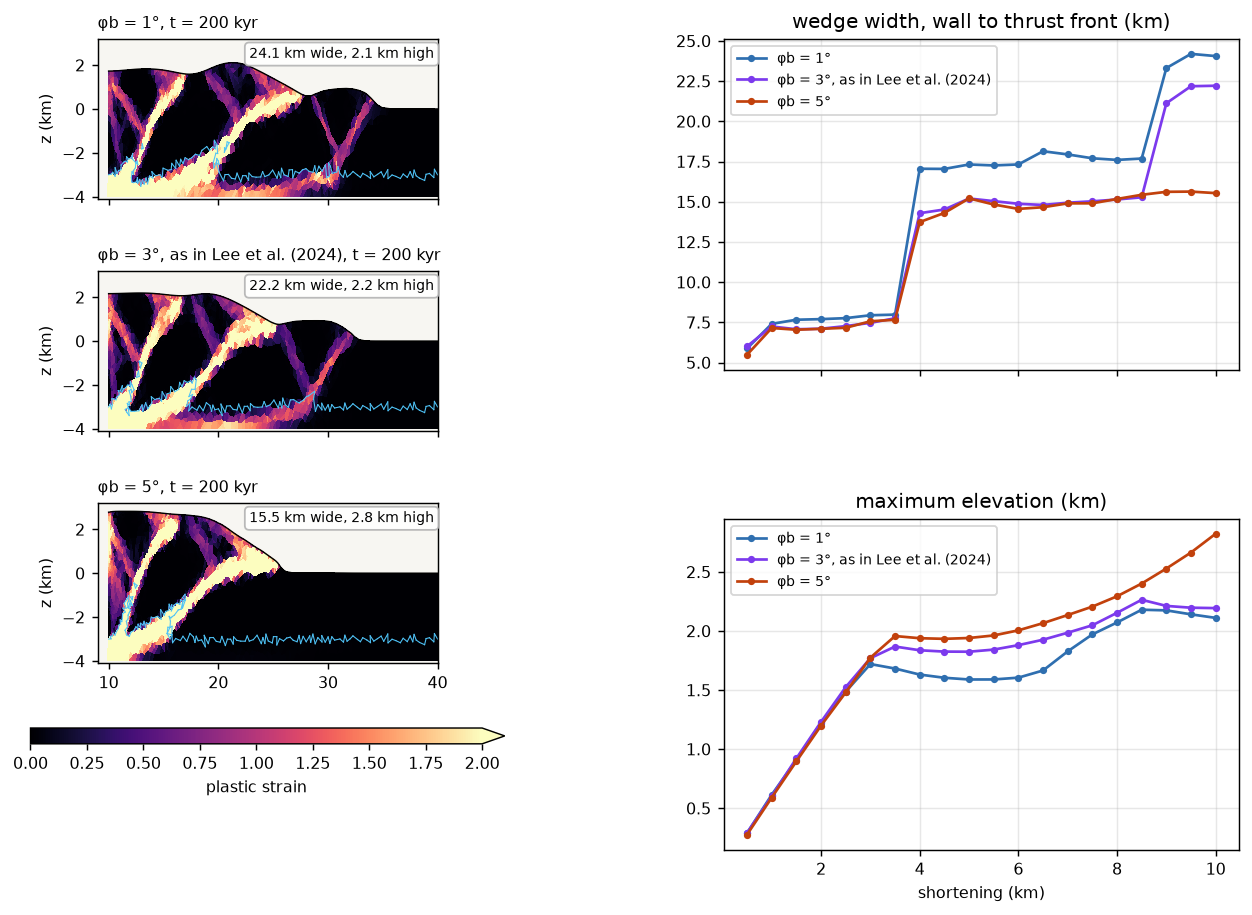
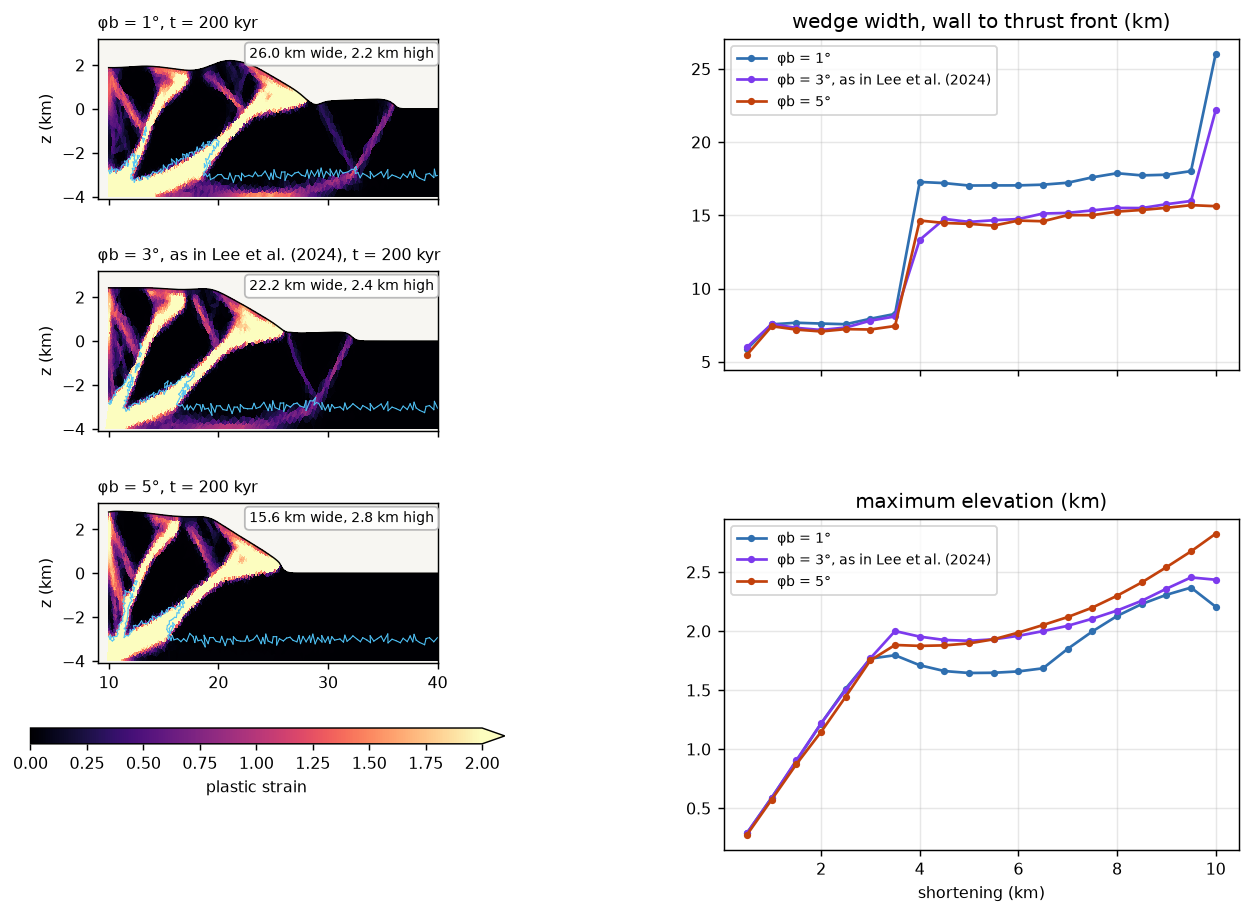
docs: rerun the wedge tutorial with the MMG build
DynEarthSol PR #113 makes remeshing_option 12 work with MMG remeshing,
so the tutorial now uses the MMG build, which refines the faults to
elements of about 180 m. All seven runs were redone with it and every
figure, table and number on the page comes from them; a tip gives the
Triangle results for comparison.

What moved: the 1 degree wedge breaks its third thrust just before
200 kyr instead of at 180 kyr (26.0 km wide, against 24.1); with
surface diffusivity 1e-5 it breaks none, so erosion hides most of the
basal-friction contrast; at inertial_scaling 1e4 the second thrust
breaks earlier but in the same place. The strain-rate paragraph now
states only what both runs measure: 75-94 % of the brittle-layer rate
behind the front, and a decollement share that falls at 5 degrees.

diff --git a/docs/tutorial/accretionary-wedge.md b/docs/tutorial/accretionary-wedge.md
@@ -12,7 +12,7 @@ This tutorial builds a fold-and-thrust belt, or accretionary wedge: a brittle
 layer pushed against a backstop, sliding on a weak decollement. It runs the
 same model twice, with a basal friction angle of 1° and of 5°, and compares
 how the wedge grows. The setup is a small version of the models of
-Lee, Tan & Chang (2024), cut down so that each run takes about 4 minutes on
+Lee, Tan & Chang (2024), cut down so that each run takes about 5 minutes on
 4 threads.
 
 Shortening thickens the layer next to the backstop until the wedge is steep
@@ -39,14 +39,14 @@ lower, wider wedge.
 
 ## Prerequisites
 
-- ✅ DynEarthSol compiled in 2D **without** MMG, `make ndims=2`; see
-  [Build](../usage/usage.md) and [Running DES3D](../usage/run.md). The MMG
-  build does not support `remeshing_option = 12` yet: its first remesh
-  corrupts the mesh (see [Troubleshooting](#troubleshooting))
+- ✅ DynEarthSol compiled in 2D with MMG, `make ndims=2 usemmg=1`; see
+  [Build](../usage/usage.md), [Running DES3D](../usage/run.md) and
+  [Adaptive mesh refinement with MMG](./usingmmg.md). MMG refines the mesh
+  along the faults as they form
 - ✅ A DynEarthSol version that includes
-  [PR #113](https://github.com/GeoFLAC/DynEarthSol/pull/113), which fixes
-  `remeshing_option = 12`. Without it each remesh deletes interior nodes, the
-  mesh coarsens and no discrete thrusts form
+  [PR #113](https://github.com/GeoFLAC/DynEarthSol/pull/113), which makes
+  `remeshing_option = 12` work. Without it the first MMG remesh scatters the
+  mesh (see [Troubleshooting](#troubleshooting))
 - ✅ Python 3 with `numpy` and `matplotlib` for the plots, and optionally
   [ParaView](https://www.paraview.org/) with `2vtk.py`; see
   [Visualizing outputs](../usage/visualize.md)
@@ -72,7 +72,7 @@ The two configs differ only in `modelname` and the decollement friction angle.
 | Push | 5 cm/yr, 100 km over 2 Myr | 5 cm/yr, 10 km over 200 kyr |
 | Basal friction | 1° and 3° | 1° and 5° (3° is Exercise 1) |
 | Surface diffusivity | 1e-6 and 1e-5 m²/s | 1e-6 m²/s (1e-5 is Exercise 2) |
-| Run time | hours | about 4 minutes per run on 4 threads |
+| Run time | hours | about 5 minutes per run on 4 threads |
 
 The materials are the paper's. The brittle layer softens from a friction
 angle of 30° to 15° and a cohesion of 4 to 0.4 MPa over a plastic strain of
@@ -121,8 +121,8 @@ steps ≈ 2 × shortening × inertial_scaling / (smallest element height)
 ```
 
 Here that is 2 × 10 km × 3000 / 150 m = 400 000 steps on the initial mesh;
-the run takes about a million, because remeshing leaves some elements smaller
-than that. The cost is set by three choices: shortening, `inertial_scaling`
+the run takes about 900 000, because MMG refines the faults to elements as
+small as 80 m. The cost is set by three choices: shortening, `inertial_scaling`
 and how small elements may get (`resolution` and `smallest_size`). The DES
 default `inertial_scaling = 1e5` would need 30 million steps; this tutorial
 uses 3e3 and checks the result against 1e4 in Exercise 3.
@@ -207,14 +207,15 @@ Section by section:
 
 - **`[sim]`** runs 200 kyr, 10 km of shortening at 5 cm/yr, with a frame every
   10 kyr, 0.5 km of shortening.
-- **`[mesh]`** builds a uniform 40 × 4 km mesh. With Triangle, `resolution`
-  is not the element edge: the area limit is 1.5 × `resolution`², and these
-  settings give 2778 elements with a median edge of 364 m. Triangle
-  remeshing never refines, so the initial mesh is the finest the run will
-  have; it ends with 3474 elements and a median edge of 321 m.
-  `smallest_size = 0.2` remeshes when an element is squeezed below 0.2 of the
-  area of an equilateral triangle with edge `resolution`, which keeps `dt`
-  from collapsing.
+- **`[mesh]`** builds a uniform 40 × 4 km mesh. `resolution` is not the
+  element edge: the initial area limit is 1.5 × `resolution`², and these
+  settings give 2778 elements with a median edge of 364 m. At each remesh MMG
+  refines where plastic strain accumulates, between the sizes `largest_size`
+  and `smallest_size` allow. By 200 kyr the 1° run has 5850 elements: those
+  in the faults (plastic strain above 1) have a median edge of 179 m, the
+  rest 267 m. `smallest_size = 0.2` also remeshes when an element is squeezed
+  below 0.2 of the area of an equilateral triangle with edge `resolution`,
+  which keeps `dt` from collapsing.
 - **`[control]`** turns on hillslope diffusion of the surface and sets
   `inertial_scaling`, which with the element size sets the step count (see
   above).
@@ -249,12 +250,21 @@ OMP_NUM_THREADS=4 /path/to/DynEarthSol/dynearthsol2d wedge-phi1.cfg
 OMP_NUM_THREADS=4 /path/to/DynEarthSol/dynearthsol2d wedge-phi5.cfg
 ```
 
-On an 8-core desktop (Intel i7-10700) each run took 4 minutes alone on 4
-threads, about a million steps and 130 to 180 remeshes; two at once on 4
-threads each took 5 minutes. On a 4-core laptop, run them one after the
+On an 8-core desktop (Intel i7-10700) the 1° run took 4.6 minutes alone on 4
+threads, about 890 000 steps and 105 remeshes; the two at once on 4 threads
+each took 5.5 minutes. On a 4-core laptop, run them one after the
 other, or both at once with `OMP_NUM_THREADS=2`. The log prints a line every
 100 000 steps, an `Output #` line every 10 kyr, and a `Remeshing starts` line
 at every remesh. Output goes to `wedge-phi1.save.*` and `wedge-phi5.save.*`.
+
+:::tip Without MMG
+The same configs run on a plain Triangle build (`make ndims=2`). Triangle
+remeshing does not refine, so the faults stay as wide as the initial elements
+and the run is about 15 % faster. The wedges come out alike: at 200 kyr,
+24.4 km wide and 2.0 km high at 1°, 15.7 km and 2.7 km at 5°, against 26.0
+and 2.2, 15.6 and 2.8 with MMG. The third thrust at 1° breaks at 180 kyr
+instead of 200.
+:::
 
 ## Step 3: What to look for
 
@@ -278,13 +288,13 @@ because the wedge is still too short for its base to carry much of the push.
 Then they part:
 
 - **At 80 kyr both break a new thrust far ahead.** At φb = 1° the new pair
-  roots in the decollement 17 km from the wall; at φb = 5° only 14 km. The
+  roots in the decollement 17 km from the wall; at φb = 5° only 15 km. The
   weak base transmits the push farther before the layer fails.
 - **At 200 kyr the 1° wedge has three thrust slices, the 5° wedge two.**
-  At 1° a third pair broke at 180 kyr, 23 km from the wall; at 5° the
-  second slice is still being overthrust and the front has not moved.
-- **The 5° wedge is narrower and higher.** It is 15.5 km wide and 2.8 km
-  high, against 24 km and 2.1 km at 1°. The same shortening has gone into
+  At 1° a third pair broke just before 200 kyr, 26 km from the wall; at 5°
+  the second slice is still being overthrust and the front has hardly moved.
+- **The 5° wedge is narrower and higher.** It is 15.6 km wide and 2.8 km
+  high, against 26 km and 2.2 km at 1°. The same shortening has gone into
   less width and more height, a steeper taper.
 - **The decollement is dragged along.** Under the wedge it is sheared and
   thickened against the wall (the bright band along the base); ahead of the
@@ -292,10 +302,10 @@ Then they part:
 
 | t (kyr) | Shortening (km) | Width at 1° (km) | Height at 1° (km) | Width at 5° (km) | Height at 5° (km) |
 |---|---|---|---|---|---|
-| 50 | 2.5 | 7.8 | 1.5 | 7.2 | 1.5 |
-| 100 | 5 | 17.3 | 1.6 | 15.2 | 1.9 |
-| 150 | 7.5 | 17.7 | 2.0 | 14.9 | 2.2 |
-| 200 | 10 | 24.1 | 2.1 | 15.5 | 2.8 |
+| 50 | 2.5 | 7.6 | 1.5 | 7.2 | 1.4 |
+| 100 | 5 | 17.0 | 1.6 | 14.4 | 1.9 |
+| 150 | 7.5 | 17.6 | 2.0 | 15.0 | 2.2 |
+| 200 | 10 | 26.0 | 2.2 | 15.6 | 2.8 |
 
 Width is measured from the wall to the thrust front, the farthest point of the
 upper 2.5 km of the brittle layer where plastic strain exceeds 0.5.
@@ -303,22 +313,24 @@ upper 2.5 km of the brittle layer where plastic strain exceeds 0.5.
 ![Strain rate of the same frames: the faults active at each moment](./img/wedge/wedge-strainrate.png)
 
 Strain rate shows which of those faults are moving at each moment, and it is
-fewer than plastic strain suggests. Where the two runs differ is in where the
-active faults are:
+fewer than plastic strain suggests. In both runs, from 80 kyr on, 75 to 94 %
+of the plastic strain rate of the brittle layer is within 8 km behind the
+thrust front, and the thrusts between the front and the wall are nearly
+locked. The runs differ in what carries the rest:
 
-- **At 1° the front does the work.** Once a new thrust has broken, 65 to 85 %
-  of the plastic strain rate of the brittle layer is in the frontal slice,
-  and the slices behind it are nearly locked. The decollement under the
-  wedge carries 50 to 80 % of all plastic strain rate.
-- **At 5° the rear comes back to life.** At 100 kyr more than half of the
-  brittle-layer plastic strain rate is within 8 km of the wall, on faults that
-  had been abandoned: the wedge thickens internally to steepen its taper
-  before it can advance again. The decollement carries 33 to 60 %.
+- **At 1° the decollement does.** It carries about half or more of all
+  plastic strain rate, 49 to 79 %, and the wedge slides on it as a whole. The
+  exception is the frame before the new thrust breaks (37 % at 180 kyr).
+- **At 5° the wedge itself does, more and more.** The decollement's share falls
+  steadily, from 63 % at 80 kyr to 39 % at 200 kyr, as the wedge grows and
+  its base gets harder to slide. The backthrust at the wall takes up 7 to 15 %
+  of the brittle-layer rate from 120 kyr on, against 2 to 6 % at 1° (14 % in
+  the frame before the new thrust).
 
 Lee, Tan & Chang (2024) found, over much longer runs, that the frontal thrusts
 are the only active structures for over 95 % of the time, and that new thrusts
-form and older ones reactivate in short episodes (here, the jumps at 80 and
-180 kyr). In this small model that pattern is clearest at 1°.
+form and older ones reactivate in short episodes. Here the episodes are the
+jumps at 80 and 200 kyr.
 
 ![Surface topography at 100 and 200 kyr, and wedge width and maximum elevation against shortening, for both runs](./img/wedge/wedge-growth.png)
 
@@ -341,15 +353,15 @@ python3 wedge_figures.py compare basal.png "wedge-phi1:φb = 1°" \
 
 | Run | Width at 200 kyr | Height at 200 kyr | New thrusts after the first |
 |-----|------------------|-------------------|-----------------------------|
-| φb = 1° | 24.1 km | 2.1 km | at 80 and 180 kyr |
-| φb = 3° | 22.2 km | 2.2 km | at 80 and 180 kyr |
-| φb = 5° | 15.5 km | 2.8 km | at 80 kyr |
+| φb = 1° | 26.0 km | 2.2 km | at 80 and 200 kyr |
+| φb = 3° | 22.2 km | 2.4 km | at 80 and 200 kyr |
+| φb = 5° | 15.6 km | 2.8 km | at 80 kyr |
 
 ![Plastic strain at 200 kyr for basal friction 1°, 3° and 5°, and wedge width and maximum elevation against shortening](./img/wedge/wedge-basal-friction.png)
 
-At 3° the wedge follows the 5° one at first: the second thrust breaks 14 km
-from the wall, as at 5°, and the height between jumps is in between. But at
-180 kyr it breaks a third thrust at the same time as the 1° wedge. Over only
+At 3° the wedge follows the 5° one at first: the second thrust breaks 13 to
+15 km from the wall, as at 5°, and the height between jumps is in between. But
+just before 200 kyr it breaks a third thrust, at the same time as the 1° wedge. Over only
 10 km of shortening the wedge has room for two or three slices, so a
 difference in basal friction shows up as whether one more thrust has formed or
 not. That is why the main comparison uses 5°: over this short a run, 3° and
@@ -364,36 +376,40 @@ Set `surface_diffusivity = 1e-5`, the paper's other value, in both configs
 
 | Run | Width at 200 kyr | Height at 200 kyr |
 |-----|------------------|-------------------|
-| φb = 1°, κ = 1e-6 | 24.1 km | 2.1 km |
-| φb = 1°, κ = 1e-5 | 26.1 km | 2.0 km |
-| φb = 5°, κ = 1e-6 | 15.5 km | 2.8 km |
-| φb = 5°, κ = 1e-5 | 12.8 km | 2.7 km |
+| φb = 1°, κ = 1e-6 | 26.0 km | 2.2 km |
+| φb = 1°, κ = 1e-5 | 15.2 km | 2.3 km |
+| φb = 5°, κ = 1e-6 | 15.6 km | 2.8 km |
+| φb = 5°, κ = 1e-5 | 14.2 km | 2.4 km |
 
 Erosion takes material off the top of the wedge and spreads it as an apron in
 front of the toe. The apron makes the topography look wider, which is why the
 width here is measured from the thrusts and not from where the surface starts
-to rise. Measured from the thrusts, the 5° wedge is *narrower* with erosion: by
-keeping the taper below critical, erosion delays the next thrust, and the
-front stays at the slice built at 80 kyr. At 1° the third thrust breaks at 190
-kyr instead of 180 kyr, and then lands farther out.
+to rise. Measured from the thrusts, both wedges are *narrower* with erosion.
+By keeping the taper below critical, erosion delays the next thrust: at 5° the
+second one breaks at 90 kyr instead of 80, and at 1° the third one has not
+broken by 200 kyr. The 5° wedge is also 0.4 km lower. With erosion this strong,
+the two basal frictions end up only 1 km apart in width and 0.1 km in height,
+against 10 km and 0.6 km without it: over 10 km of shortening, erosion hides
+most of the difference that basal friction makes.
 
 ## Exercise 3: is `inertial_scaling = 3e3` small enough?
 
 DES reaches a quasi-static solution by solving the dynamic equations with the
 density scaled up, and `inertial_scaling` controls how far. A smaller value is
 cheaper but lets inertia matter more. Rerun `wedge-phi1.cfg` with
-`inertial_scaling = 1e4` and `max_time_in_yr = 100000`. It takes 3.3 times as
-many steps, 1.55 million against 465 000 to 100 kyr.
+`inertial_scaling = 1e4` and `max_time_in_yr = 100000`. It takes 3.4 times as
+many steps, 1.45 million against 432 000 to 100 kyr.
 
 ![Plastic strain at 100 kyr with inertial_scaling 3e3 and 1e4, and wedge width and maximum elevation against shortening](./img/wedge/wedge-scaling.png)
 
-Up to 60 kyr the two runs are the same to within 0.3 km of width and 0.02 km
-of height. Then the second thrust breaks 10 kyr earlier at 1e4, and 2 km
-closer to the wall: 15.4 against 17.3 km at 100 kyr. The structure and the
-height are the same. When and where a new thrust nucleates is sensitive to
-small differences, including this one, while the wedge as a whole is not. Do
-not read a 2 km difference in thrust spacing between two runs as a result
-unless it survives a change of `inertial_scaling`.
+Up to 60 kyr the two runs are the same to within 0.3 km of width and 0.03 km
+of height. Then the second thrust breaks 10 kyr earlier at 1e4, at 70 kyr
+instead of 80, but in the same place: 17.2 against 17.3 km from the wall. At
+100 kyr the structure is the same and the heights differ by 0.1 km. When a new
+thrust nucleates is sensitive to small differences, including this one, while
+where it breaks and the shape of the wedge are not. Do not read a 10 kyr
+difference in when a thrust breaks between two runs as a result unless it
+survives a change of `inertial_scaling`.
 
 ## Troubleshooting
 
@@ -401,11 +417,11 @@ All rows were observed while building this tutorial.
 
 | Symptom | Cause and fix |
 |---------|---------------|
-| After the first remesh, `dt` jumps to about 5e5 yr and the run ends at once, with `prepare_interpolation` warnings | `remeshing_option = 12` with an MMG build (`usemmg=1`). It is not supported with MMG; build with `make ndims=2` |
-| The node count drops by half at the first remesh and plastic strain is spread over the whole wedge, with no discrete thrusts | A DynEarthSol without [PR #113](https://github.com/GeoFLAC/DynEarthSol/pull/113): each remesh deletes interior nodes. Update DynEarthSol |
+| After the first remesh, `dt` jumps to about 5e5 yr and the run ends at once, with `prepare_interpolation` warnings | An MMG build of DynEarthSol without [PR #113](https://github.com/GeoFLAC/DynEarthSol/pull/113), where `remeshing_option = 12` scatters the mesh. Update DynEarthSol |
+| The node count drops by half at the first remesh and plastic strain is spread over the whole wedge, with no discrete thrusts | A build without MMG and without [PR #113](https://github.com/GeoFLAC/DynEarthSol/pull/113): each remesh deletes interior nodes. Update DynEarthSol |
 | `Error: tangled mesh (post-remesh): boundary segments ... cross` on the pushing wall | The push was tapered with `vbc_x1 = 1` and the `vbc_val_x1_ratio*` table, which leaves the vertical velocity of the wall free; the wall folds over itself in the decollement. Push from the left wall with `vbc_x0 = 3`, which fixes it |
 | `dt` falls tenfold within 60 kyr, with `size of element ... too small` near the base of the pushing wall | `remeshing_option = 11` instead of 12: the sliver under the slanted wall foot is never cut off, and its elements keep shrinking |
-| Strain diffuse even with the fix | The mesh is too coarse: thrusts need several elements across the 3 km layer. Keep `resolution` at 250 or below; with Triangle, `resolution` 250 gives edges of about 360 m |
+| Strain diffuse even with the fix | The mesh is too coarse: thrusts need several elements across the 3 km layer. Keep `resolution` at 250 or below, which starts at edges of about 360 m and lets MMG refine the faults to about 180 m |
 | The run takes much longer than 5 minutes | `inertial_scaling` left at the default 1e5 (33 times the steps), or `smallest_size` lowered |
 
 ## Next steps
